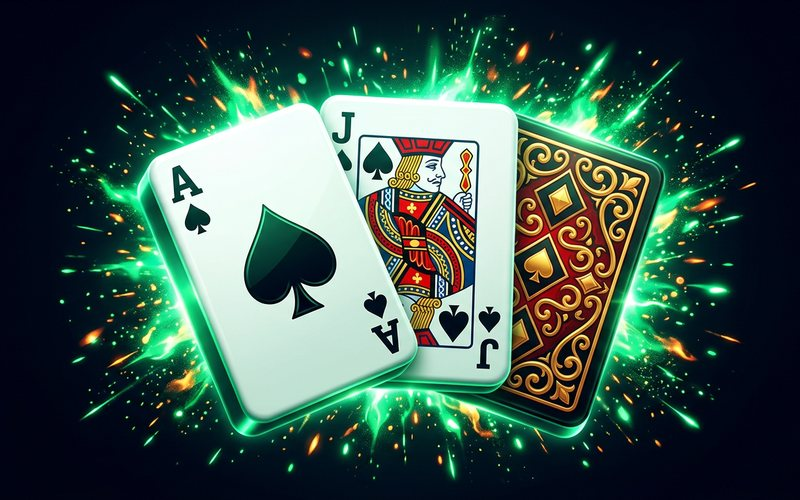
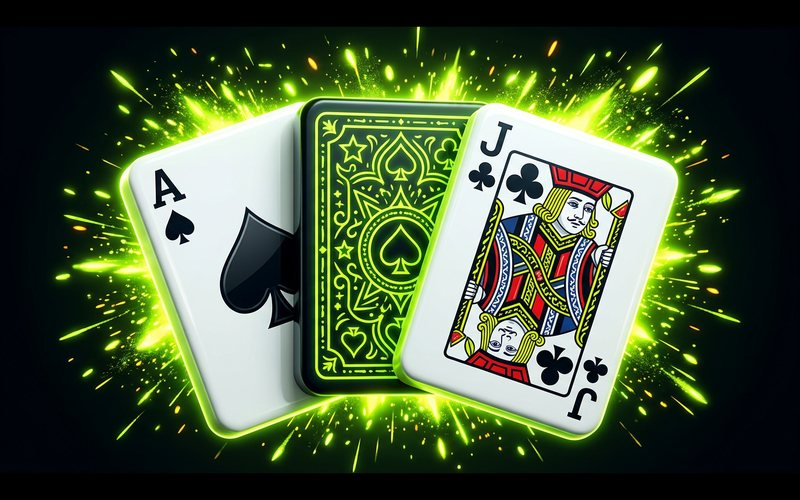
Unify games grid on brand lime: single accent for all cards/buttons/heroes, regenerated all six thumbnails in one consistent lime-on-dark treatment

diff --git a/index.html b/index.html
@@ -186,7 +186,7 @@
       <p class="games-sub">MYBC Originals, end to end: math models, game UI, 2D art, and the frontend that ships. Every game runs in demo mode, no real money.</p>
     </div>
     <div class="games-grid">
-      <article class="gcard anim" style="--gc:#CAFF00" data-title="Dice" data-play="https://games.portmoney.ge/dice/?brand=mybc">
+      <article class="gcard anim" data-title="Dice" data-play="https://games.portmoney.ge/dice/?brand=mybc">
         <a class="gcard-cover-link" href="projects/dice.html"><div class="gcard-cover"><img class="cover-art" src="assets/covers/games/dice.jpg" alt="Dice game art" loading="lazy"><span class="cover-scrim"></span><span class="gcard-type">Instant win · Roll over/under</span></div></a>
         <div class="gcard-body">
           <div class="gcard-head"><h3>Dice</h3><a class="gcard-cs" href="projects/dice.html">Case study &nearr;</a></div>
@@ -194,7 +194,7 @@
           <div class="gcard-actions"><button class="gcard-play" type="button" hidden>Play demo</button><span class="gcard-soon">Playable demo soon</span></div>
         </div>
       </article>
-      <article class="gcard anim" style="--gc:#0ECC68" data-title="Blackjack">
+      <article class="gcard anim" data-title="Blackjack">
         <a class="gcard-cover-link" href="projects/blackjack.html"><div class="gcard-cover"><img class="cover-art" src="assets/covers/games/blackjack.jpg" alt="Blackjack game art" loading="lazy"><span class="cover-scrim"></span><span class="gcard-type">Table game · Single &amp; multi-hand</span></div></a>
         <div class="gcard-body">
           <div class="gcard-head"><h3>Blackjack</h3><a class="gcard-cs" href="projects/blackjack.html">Case study &nearr;</a></div>
@@ -202,7 +202,7 @@
           <div class="gcard-actions"><button class="gcard-play play-demo-btn" type="button" data-title="Blackjack · Single hand" data-play="https://games.portmoney.ge/blackjack/?brand=mybc" hidden>Play single</button><button class="gcard-play play-demo-btn" type="button" data-title="Blackjack · Multi-hand" data-play="https://blackjack-mybc-concept.vercel.app/" hidden>Play multi</button><span class="gcard-soon">Playable demo soon</span></div>
         </div>
       </article>
-      <article class="gcard anim" style="--gc:#FBCE04" data-title="Keno" data-play="https://games.portmoney.ge/keno/?brand=mybc">
+      <article class="gcard anim" data-title="Keno" data-play="https://games.portmoney.ge/keno/?brand=mybc">
         <a class="gcard-cover-link" href="projects/keno.html"><div class="gcard-cover"><img class="cover-art" src="assets/covers/games/keno.jpg" alt="Keno game art" loading="lazy"><span class="cover-scrim"></span><span class="gcard-type">Instant win · Number draw</span></div></a>
         <div class="gcard-body">
           <div class="gcard-head"><h3>Keno</h3><a class="gcard-cs" href="projects/keno.html">Case study &nearr;</a></div>
@@ -210,7 +210,7 @@
           <div class="gcard-actions"><button class="gcard-play" type="button" hidden>Play demo</button><span class="gcard-soon">Playable demo soon</span></div>
         </div>
       </article>
-      <article class="gcard anim" style="--gc:#7B6FE3" data-title="Moles" data-play="https://games.portmoney.ge/moles/?brand=mybc">
+      <article class="gcard anim" data-title="Moles" data-play="https://games.portmoney.ge/moles/?brand=mybc">
         <a class="gcard-cover-link" href="projects/moles.html"><div class="gcard-cover"><img class="cover-art" src="assets/covers/games/moles.jpg" alt="Moles game art" loading="lazy"><span class="cover-scrim"></span><span class="gcard-type">Instant win · Level climb</span></div></a>
         <div class="gcard-body">
           <div class="gcard-head"><h3>Moles</h3><a class="gcard-cs" href="projects/moles.html">Case study &nearr;</a></div>
@@ -218,7 +218,7 @@
           <div class="gcard-actions"><button class="gcard-play" type="button" hidden>Play demo</button><span class="gcard-soon">Playable demo soon</span></div>
         </div>
       </article>
-      <article class="gcard anim" style="--gc:#5581F7" data-title="Plinko" data-play="https://games.portmoney.ge/plinko/?brand=mybc">
+      <article class="gcard anim" data-title="Plinko" data-play="https://games.portmoney.ge/plinko/?brand=mybc">
         <a class="gcard-cover-link" href="projects/plinko.html"><div class="gcard-cover"><img class="cover-art" src="assets/covers/games/plinko.jpg" alt="Plinko game art" loading="lazy"><span class="cover-scrim"></span><span class="gcard-type">Instant win · Ball drop</span></div></a>
         <div class="gcard-body">
           <div class="gcard-head"><h3>Plinko</h3><a class="gcard-cs" href="projects/plinko.html">Case study &nearr;</a></div>
@@ -226,7 +226,7 @@
           <div class="gcard-actions"><button class="gcard-play" type="button" hidden>Play demo</button><span class="gcard-soon">Playable demo soon</span></div>
         </div>
       </article>
-      <article class="gcard anim" style="--gc:#00BFA5" data-title="Hammer King" data-play="https://harmerking.vercel.app/">
+      <article class="gcard anim" data-title="Hammer King" data-play="https://harmerking.vercel.app/">
         <a class="gcard-cover-link" href="projects/hammerking.html"><div class="gcard-cover"><img class="cover-art" src="assets/covers/games/hammerking.jpg" alt="Hammer King game art" loading="lazy"><span class="cover-scrim"></span><span class="gcard-type">Crash · High striker</span></div></a>
         <div class="gcard-body">
           <div class="gcard-head"><h3>Hammer King</h3><a class="gcard-cs" href="projects/hammerking.html">Case study &nearr;</a></div>

diff --git a/projects/blackjack.html b/projects/blackjack.html
@@ -51,7 +51,7 @@
 </section>
 
 <div class="container anim">
-  <div class="gcard-cover ghero" style="--gc:#0ECC68">
+  <div class="gcard-cover ghero">
     <img class="cover-art" src="../assets/covers/games/blackjack.jpg" alt="Blackjack game art"><span class="cover-scrim"></span>
     <span class="gcard-word">BLACKJACK</span>
     <span class="gcard-type">Table game &middot; Single &amp; multi-hand</span>

diff --git a/projects/hammerking.html b/projects/hammerking.html
@@ -52,7 +52,7 @@
 </section>
 
 <div class="container anim">
-  <div class="gcard-cover ghero" style="--gc:#00BFA5">
+  <div class="gcard-cover ghero">
     <img class="cover-art" src="../assets/covers/games/hammerking.jpg" alt="Hammer King game art"><span class="cover-scrim"></span>
     <span class="gcard-word">HAMMER KING</span>
     <span class="gcard-type">Crash &middot; High striker</span>

diff --git a/projects/dice.html b/projects/dice.html
@@ -51,7 +51,7 @@
 </section>
 
 <div class="container anim">
-  <div class="gcard-cover ghero" style="--gc:#CAFF00">
+  <div class="gcard-cover ghero">
     <img class="cover-art" src="../assets/covers/games/dice.jpg" alt="Dice game art"><span class="cover-scrim"></span>
     <span class="gcard-word">DICE</span>
     <span class="gcard-type">Instant win &middot; Roll over/under</span>

diff --git a/projects/plinko.html b/projects/plinko.html
@@ -50,7 +50,7 @@
 </section>
 
 <div class="container anim">
-  <div class="gcard-cover ghero" style="--gc:#5581F7">
+  <div class="gcard-cover ghero">
     <img class="cover-art" src="../assets/covers/games/plinko.jpg" alt="Plinko game art"><span class="cover-scrim"></span>
     <span class="gcard-word">PLINKO</span>
     <span class="gcard-type">Instant win &middot; Ball drop</span>

diff --git a/projects/moles.html b/projects/moles.html
@@ -51,7 +51,7 @@
 </section>
 
 <div class="container anim">
-  <div class="gcard-cover ghero" style="--gc:#7B6FE3">
+  <div class="gcard-cover ghero">
     <img class="cover-art" src="../assets/covers/games/moles.jpg" alt="Moles game art"><span class="cover-scrim"></span>
     <span class="gcard-word">MOLES</span>
     <span class="gcard-type">Instant win &middot; Level climb</span>

diff --git a/projects/keno.html b/projects/keno.html
@@ -51,7 +51,7 @@
 </section>
 
 <div class="container anim">
-  <div class="gcard-cover ghero" style="--gc:#FBCE04">
+  <div class="gcard-cover ghero">
     <img class="cover-art" src="../assets/covers/games/keno.jpg" alt="Keno game art"><span class="cover-scrim"></span>
     <span class="gcard-word">KENO</span>
     <span class="gcard-type">Instant win &middot; Number draw</span>
